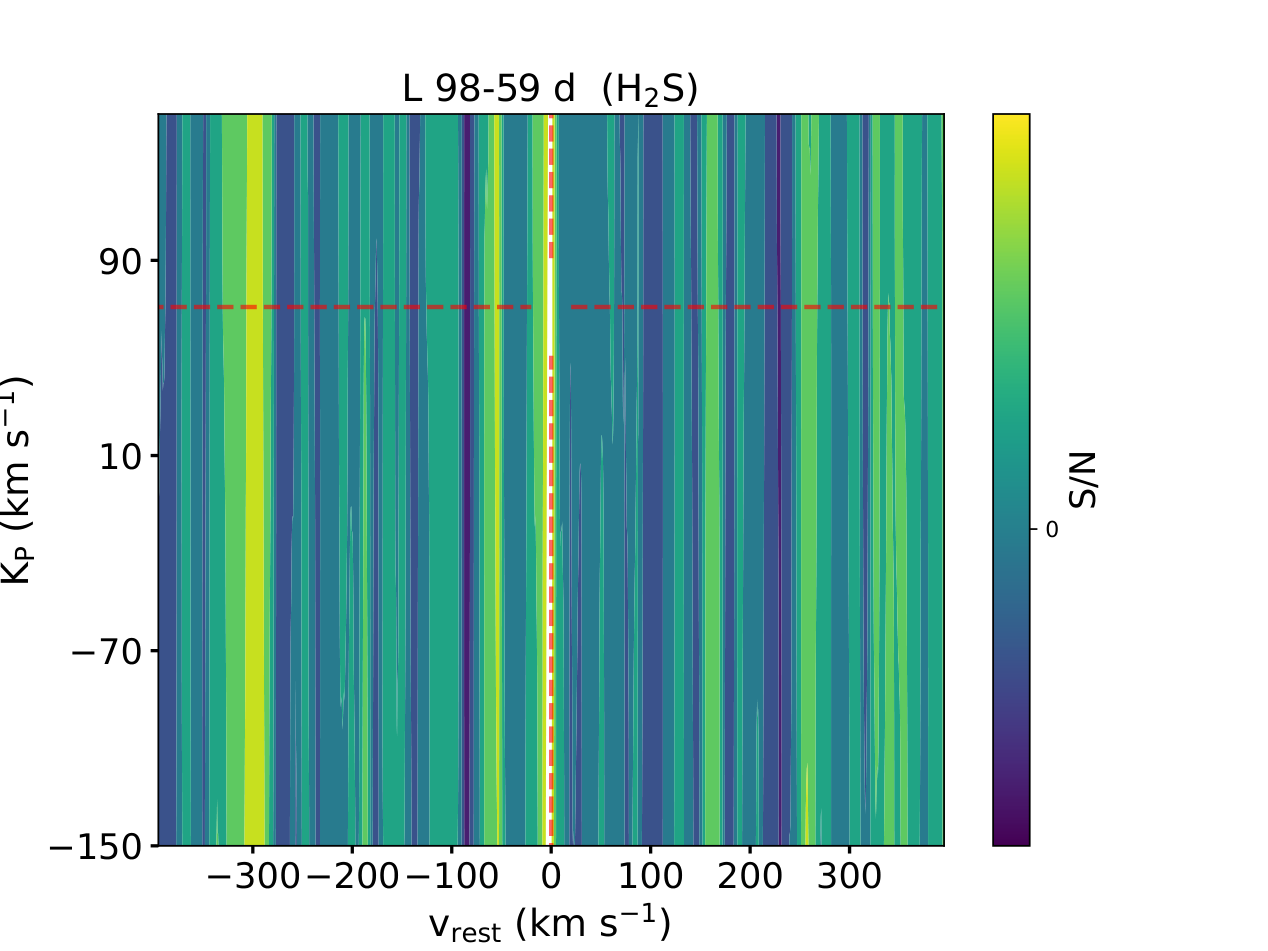
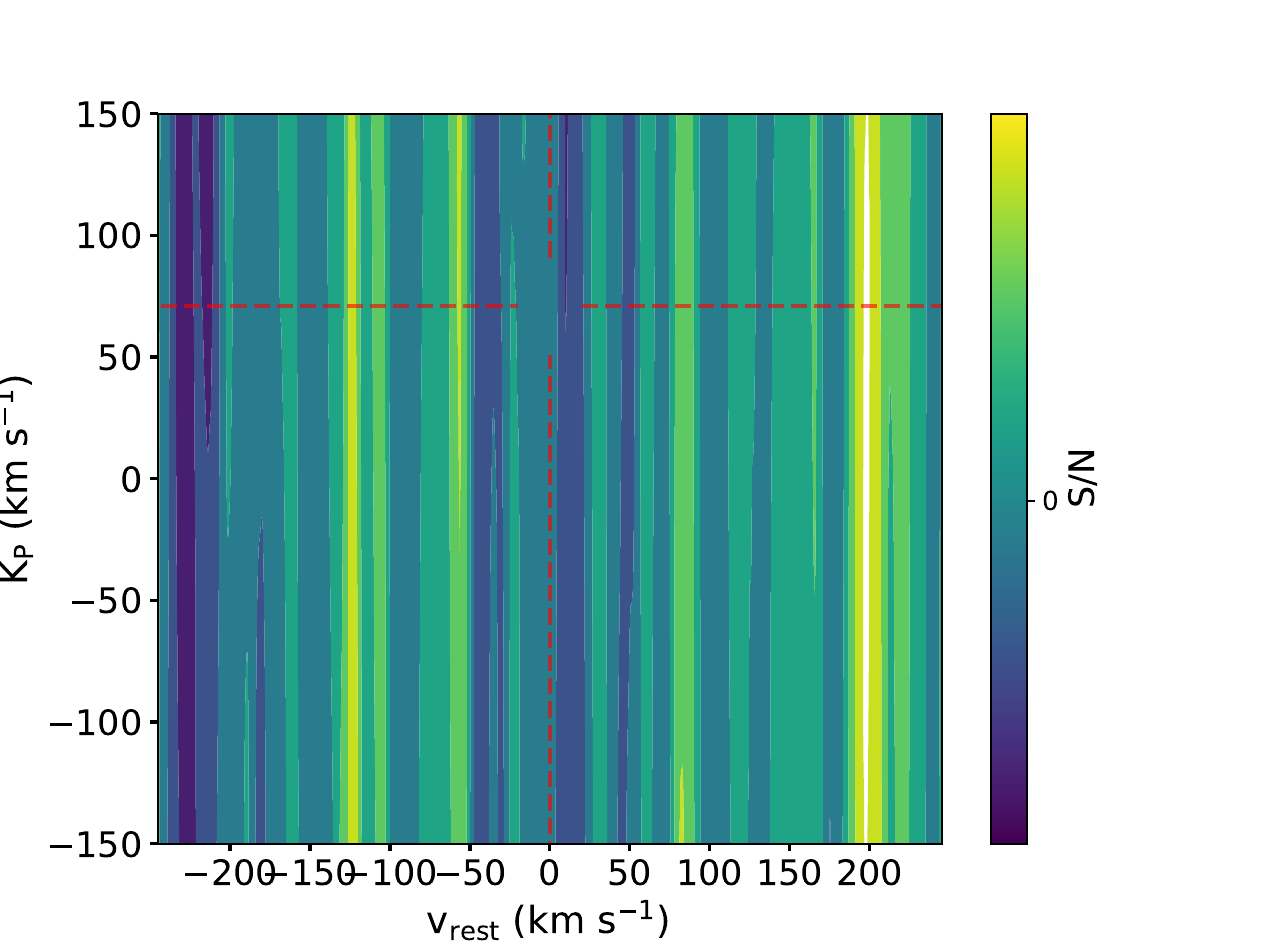
L98-59d tutorial: Cheverall26 detrends with PCA (not SYSREM); anchor Kp-Vsys ticks on 0
Set detrend_method=pca in the L98-59d IGRINS config and fix the tutorial
prose (unweighted PCA, de Kok 2013 / Cheverall 2023), regenerate the
tutorial 10 figures. Anchor Kp-Vsys x and y ticks on 0 (Kp on a 50 km/s
grid, WASP-127 v_rest step 100) so 0 is always labelled.

diff --git a/src/exoplore/plotting/kpvsys.py b/src/exoplore/plotting/kpvsys.py
@@ -574,9 +574,17 @@ def plot_Kp_Vrest(
         if _vspan / max(_xstep, 1e-9) > 12:
             _xstep = next((s for s in (10, 20, 25, 50, 100, 200, 500)
                            if _vspan / s <= 12), 500)
-        xlabels = np.arange(-inp_dat['MAX_CCF_V_STD'],
-                            inp_dat['MAX_CCF_V_STD'] + _xstep, _xstep)
-        ylabels = np.arange(-inp_dat['kp_max'], inp_dat['kp_max'] + 80, 80)
+        # x-axis (v_rest) ticks anchored on 0 (so 0 is always labelled even when
+        # the step does not divide the velocity range evenly); ticks beyond the
+        # range are clipped by the axis limits.
+        _vmax_tick = int(np.ceil(inp_dat['MAX_CCF_V_STD'] / _xstep) * _xstep)
+        xlabels = np.arange(-_vmax_tick, _vmax_tick + _xstep, _xstep)
+        # y-axis (Kp) ticks: a clean 50 km/s grid anchored on 0 (so 0 is always
+        # labelled), spanning at least -200 to 200 km/s inclusive; ticks beyond
+        # the Kp range are clipped by the axis limits.
+        _kstep = 50
+        _kmax = max(200, int(np.ceil(inp_dat['kp_max'] / _kstep) * _kstep))
+        ylabels = np.arange(-_kmax, _kmax + _kstep, _kstep)
 
         kp_plot = ax.contourf(v_rest, kp_range, plot_variable, levels,
                               cmap=cm.viridis)
@@ -630,10 +638,18 @@ def plot_Kp_Vrest(
                 plot_variable = np.transpose(ccf_tot_sn[:, :, j, i], (1, 0))
                 levels = np.arange(np.floor(ccf_tot_sn.min()),
                                    np.ceil(ccf_tot_sn.max()) - 0.7, 1)
-                xlabels = np.arange(-inp_dat['MAX_CCF_V_STD'],
-                                    inp_dat['MAX_CCF_V_STD'] + inp_dat['PLOT_CCF_XSTEP'],
-                                    inp_dat['PLOT_CCF_XSTEP'])
-                ylabels = np.arange(-inp_dat['kp_max'], inp_dat['kp_max'] + 80, 80)
+                # x-axis ticks anchored on 0 (see 2D path), so 0 is labelled
+                # even when the step does not divide the velocity range evenly.
+                _xstep_m = inp_dat['PLOT_CCF_XSTEP']
+                _vmax_tick = int(np.ceil(inp_dat['MAX_CCF_V_STD'] / _xstep_m)
+                                 * _xstep_m)
+                xlabels = np.arange(-_vmax_tick, _vmax_tick + _xstep_m, _xstep_m)
+                # y-axis (Kp) ticks on a clean 50 km/s grid anchored on 0,
+                # spanning at least -200 to 200 km/s inclusive (see 2D path).
+                _kstep = 50
+                _kmax = max(200,
+                            int(np.ceil(inp_dat['kp_max'] / _kstep) * _kstep))
+                ylabels = np.arange(-_kmax, _kmax + _kstep, _kstep)
                 kp_plot = ax.contourf(v_rest, kp_range, plot_variable, levels,
                                       cmap=cm.viridis)
                 ax.tick_params(axis='both', width=1.5, direction='out', labelsize=16)

diff --git a/src/exoplore/pipelines/cheverall26.py b/src/exoplore/pipelines/cheverall26.py
@@ -17,9 +17,10 @@ Pipeline steps (applied in this order per spectral order):
         the maxima in 80 wavelength bins (``pipeline_pseudocontinuum_norm``
         from ``exoplore.pipelines.bl19``), tracing the blaze/throughput
         envelope without distortion from absorption lines.
-    4.  SYSREM detrending with Max_Diff/ΔCCF optimisation, inject H2S
+    4.  PCA detrending (unweighted SVD, de Kok et al. 2013;
+        ``detrend_method='pca'``) with Max_Diff/ΔCCF optimisation, inject H2S
         model at offset velocity (+19 km/s, ``kp_vrest_injection=[70, 19]``),
-        run SYSREM for N=1..max, select N where marginal ΔCCF gain is
+        remove N=1..max common modes, select N where marginal ΔCCF gain is
         maximised (Holmberg & Madhusudhan 2022; Cheverall et al. 2023; 2026).
 
 Notes

diff --git a/docs/tutorial.md b/docs/tutorial.md
@@ -1096,7 +1096,7 @@ Kp-Vsys cross-correlation S/N map for WASP-127 b. The combined H₂O + CO signal
 
 The same real-data workflow applies to IGRINS. The `Cheverall26` pipeline implements the IGRINS high-resolution cross-correlation recipe of Cheverall et al. (2026), building on the IGRINS analysis lineage of Line et al. (2021), Brogi et al. (2023) and Smith et al. (2024). We use it here on the IGRINS/Gemini-South transit of the temperate super-Earth L 98-59 d (2021-03-12), the target and dataset of Cheverall et al. (2026), searching for H₂S.
 
-> **Approximate run time:** ~30 s on an Apple Mac Studio M2 Ultra (64 GB RAM), running `configs/l9859d_igrins_h2s.json` (26 IGRINS H- and K-band orders, one night, PCA/SYSREM detrending, no retrieval). The forward model (Blocks 3 to 6) is ~87% of the total; the Kp-Vsys maps are ~2 s. With `timing: true` the run writes a `timing_report_<date>.txt`.
+> **Approximate run time:** ~30 s on an Apple Mac Studio M2 Ultra (64 GB RAM), running `configs/l9859d_igrins_h2s.json` (26 IGRINS H- and K-band orders, one night, PCA detrending with one component, no retrieval). The forward model (Blocks 3 to 6) is ~87% of the total; the Kp-Vsys maps are ~2 s. With `timing: true` the run writes a `timing_report_<date>.txt`.
 
 ### Step 1: The reference night
 
@@ -1113,12 +1113,12 @@ IGRINS data reduced with the public IGRINS Pipeline Package are assembled into t
 "observation":  { "event_type": "transit", "use_real_data": true,
                   "specific_event": true, "specific_T0_bjd": 2459286.6373,
                   "exposure_time_seconds": 120.0, "simulate_planet": false },
-"pipeline":     { "name": "Cheverall26", "sysrem_iterations": 1, "snr_mask_threshold": 10.0 },
+"pipeline":     { "name": "Cheverall26", "detrend_method": "pca", "sysrem_iterations": 1, "snr_mask_threshold": 10.0 },
 "atmosphere":   { "ccf_template": { "species": ["H2", "He", "H2S"] } },
 "cross_correlation": { "velocity_max_kms": 400, "kp_max_kms": 150, "snr_exclude_kms": 15 }
 ```
 
-The `Cheverall26` pipeline uses a data-driven per-channel noise estimate (the median absolute deviation of each wavelength channel over time) and a single detrending component (`sysrem_iterations: 1`), matching the choices of Cheverall et al. (2026). The `snr_exclude_kms` window sets the velocity band excluded when estimating the CCF noise.
+The `Cheverall26` pipeline uses a data-driven per-channel noise estimate (the median absolute deviation of each wavelength channel over time) and removes a single common mode by unweighted PCA (`detrend_method: "pca"`, de Kok et al. 2013; Cheverall et al. 2023), with `sysrem_iterations: 1` setting the component count, matching the choices of Cheverall et al. (2026). The `snr_exclude_kms` window sets the velocity band excluded when estimating the CCF noise.
 
 ### Step 3: Run
 
